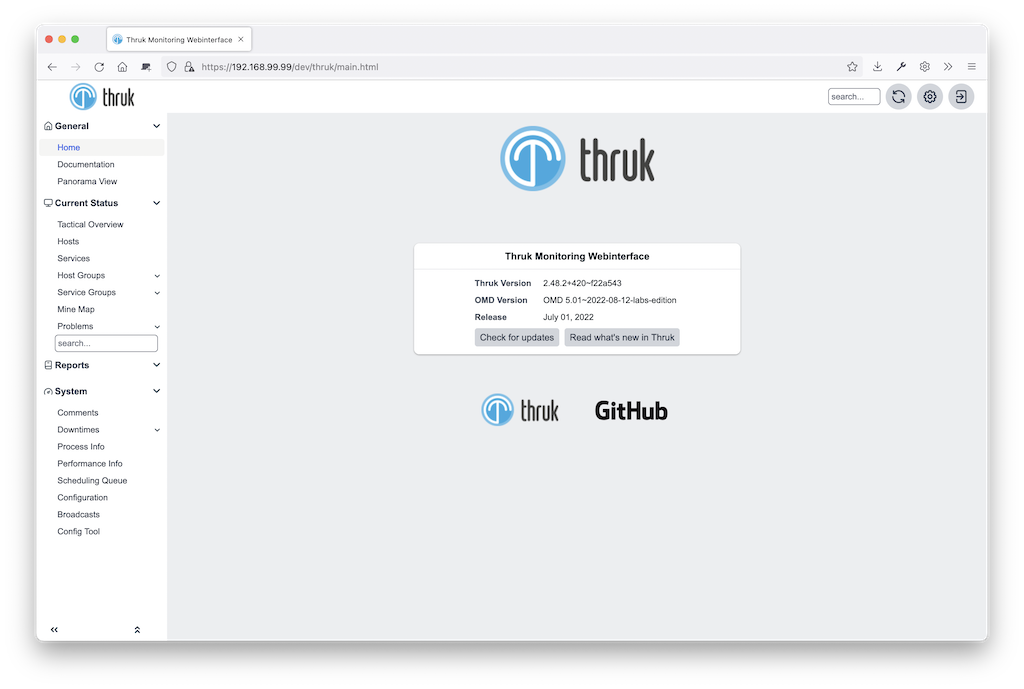
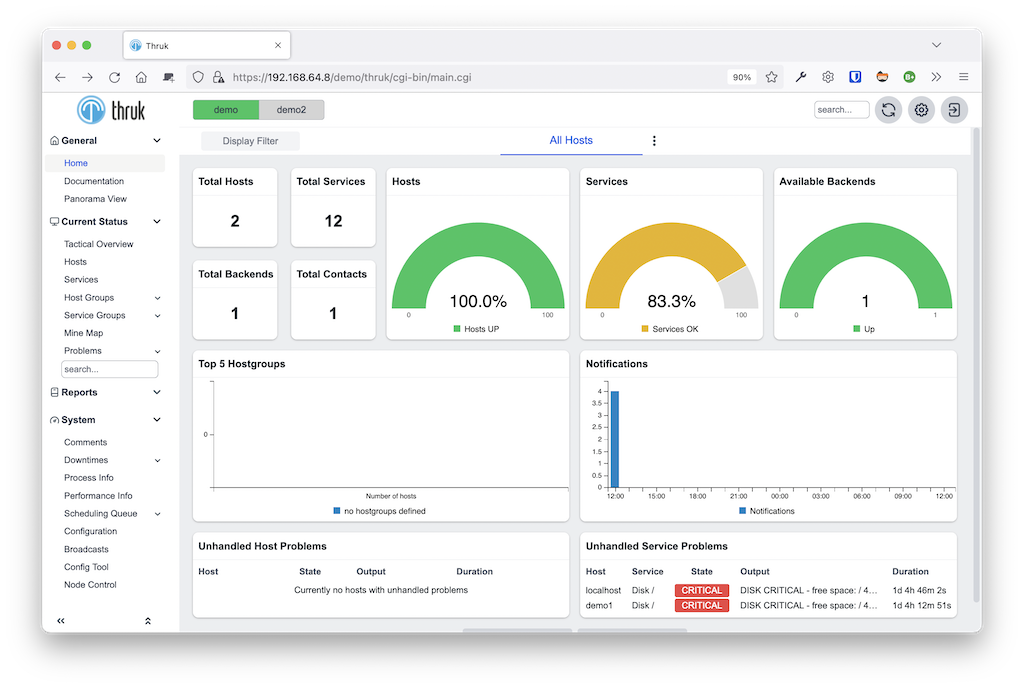
release 3.00

diff --git a/src/whatsnew/v3.00.html b/src/whatsnew/v3.00.html
@@ -1,0 +1,132 @@
+---
+version: v3.00
+title: What's New In Release v3.00
+layout: whatsnew
+lightbox: true
+breadcrumb: [ "whatsnew.html", "What's New" ]
+---
+
+<div class="row">
+  <div class="col-md-12">
+    <h3 class="page-header">Redesign and new themes</h3>
+  </div>
+</div>
+<div class="row">
+  <div class="col-md-12">
+    <p>All pages have been redesigned with Tailwind css framework for a fresh look, better responsivness and improved ui usability.</p>
+    <p>This time we did not only change the css, but reworked all pages.</p>
+  </div>
+</div>
+<div class="row">
+  <div class="col-md-4">
+    <a title="Themes" rel="lightbox[whatsnew]" href="{{ page.version }}/light.png"><img src="{{ page.version }}/light.png" alt="light theme" /></a>
+  </div>
+  <div class="col-md-4">
+    <a title="Themes" rel="lightbox[whatsnew]" href="{{ page.version }}/dark.png"><img src="{{ page.version }}/dark.png" alt="dark theme" /></a>
+  </div>
+</div>
+<div class="row">
+  <div class="col-md-12">
+    <p>This changes makes existing themes incompatible. However, it is way easier now to create custom themes, see: </p>
+    <ul>
+      <li><a href="..//documentation/themes.html">themes documentation</a></li>
+      <li><a href="https://github.com/sni/thruk-custom-themes-example">custom themes example</a></li>
+  </div>
+</div>
+
+
+<div class="row">
+  <div class="col-md-12">
+    <h3 class="page-header">New Navigation</h3>
+  </div>
+</div>
+<div class="row">
+  <div class="col-md-12">
+    <p>The side bar navigation has been reworked. There are now 3 ways to show the navigation:</p>
+  </div>
+</div>
+<div class="row">
+  <div class="col-md-4">
+    <a title="Navigation" rel="lightbox[whatsnew]" href="{{ page.version }}/nav_normal.png"><img src="{{ page.version }}/nav_normal.png" alt="normal navigation" /></a>
+  </div>
+  <div class="col-md-4">
+    <a title="Small Navigation" rel="lightbox[whatsnew]" href="{{ page.version }}/nav_small.png"><img src="{{ page.version }}/nav_small.png" alt="small navigation" /></a>
+  </div>
+  <div class="col-md-4">
+    <a title="Mobile Navigation" rel="lightbox[whatsnew]" href="{{ page.version }}/nav_mobile.png"><img src="{{ page.version }}/nav_mobile.png" alt="mobile navigation" /></a>
+  </div>
+</div>
+
+
+<div class="row">
+  <div class="col-md-12">
+    <h3 class="page-header">New Main Langing Page</h3>
+  </div>
+</div>
+<div class="row">
+  <div class="col-md-12">
+    <p>Instead of the mostly useless existing start page, there is now a landing page dashboard with some useful information.</p>
+  </div>
+</div>
+<div class="row">
+  <div class="col-md-4">
+    <a title="Main Page" rel="lightbox[whatsnew]" href="{{ page.version }}/main_page.png"><img src="{{ page.version }}/main_page.png" alt="main page" /></a>
+  </div>
+</div>
+
+
+
+<div class="row">
+  <div class="col-md-12">
+    <h3 class="page-header">Reworked Paging</h3>
+  </div>
+</div>
+<div class="row">
+  <div class="col-md-12">
+    <p>List paging has been reworked. The paging toolbar is now always visible, even if there is only a single page.</p>
+    <p>If you prefer the old style, you can toggle the full screen display with the button left to the page entries dropdown.</p>
+  </div>
+</div>
+<div class="row">
+  <div class="col-md-4">
+    <a title="Paging" rel="lightbox[whatsnew]" href="{{ page.version }}/paging.png"><img src="{{ page.version }}/paging.png" alt="paging" /></a>
+  </div>
+</div>
+
+
+
+<div class="row">
+  <div class="col-md-12">
+    <h3 class="page-header">Commands Popup</h3>
+  </div>
+</div>
+<div class="row">
+  <div class="col-md-12">
+    <p>Instead of command links beeing openend in a new page, they now open as popup (new page is still possible and supported).</p>
+  </div>
+</div>
+<div class="row">
+  <div class="col-md-4">
+    <a title="Commands" rel="lightbox[whatsnew]" href="{{ page.version }}/commands.png"><img src="{{ page.version }}/commands.png" alt="commands popup" /></a>
+  </div>
+</div>
+
+
+
+<div class="row">
+  <div class="col-md-12">
+    <h3 class="page-header">Deprecations</h3>
+  </div>
+</div>
+<div class="row">
+  <div class="col-md-12">
+    <p>A few things had to go.</p>
+    <p>
+       <ul>
+         <li><code>v2 themes</code> Existing themes are no longer supported, see above.</li>
+         <li><code>mobile plugin</code> The mobile plugin should not be neccessary anymore since most pages work well on mobile.</li>
+         <li><code>statusmap plugin</code> The statusmap plugin is no longer supported.</li>
+       </ul>
+    </p>
+  </div>
+</div>

diff --git a/src/download.html b/src/download.html
@@ -65,6 +65,7 @@ window.doOnLoadList.push(function() {
 <br>
 
 
+
 <div class="panel panel-default">
   <div class="panel-heading"><h2>Release Plan</h2></div>
   <div class="panel-body">
@@ -74,6 +75,8 @@ window.doOnLoadList.push(function() {
       <a class="btn btn-info" href="download.html#nightly-development-builds" role="button" style="width:20%;">Nightly</a>
       <a class="btn btn-warning" href="https://github.com/sni/Thruk/blob/master/Changes" role="button" target="_blank" style="width:20%;">Next: {{ site.next_release_date }}</a>
     </div>
+    <p></p>
+    <p>Read <a href="{{ site.baseurl }}whatsnew.html">what's new</a> in this release.</p>
   </div>
 </div>
 
@@ -138,6 +141,11 @@ window.doOnLoadList.push(function() {
   <td></td>
   <td><a href="https://download.thruk.org/pkg/v{{ site.release_version }}/ubuntu20.04/amd64/">thruk_{{ site.release_version }}_ubuntu20.04_amd64.deb</a></td>
 </tr>
+<tr>
+  <td class="text-center"><img src="images/ubuntu.png" alt="ubuntu" height=48 width=48></td><td class="text-center">Ubuntu</td><td class="text-center">22.04</td><td class="text-center">jammy</td>
+  <td></td>
+  <td><a href="https://download.thruk.org/pkg/v{{ site.release_version }}/ubuntu22.04/amd64/">thruk_{{ site.release_version }}_ubuntu22.04_amd64.deb</a></td>
+</tr>
 
 <tr>
   <td colspan=6>&nbsp;</td>
@@ -180,7 +188,7 @@ window.doOnLoadList.push(function() {
     <p>
       <a href="https://download.thruk.org/nightly_builds/">Download nightly snapshots</a><br>
       Have at least a look at the test results before using test releases. They should be used for tests only, not in production!<br>
-      Travis-CI: <a href="https://travis-ci.org/sni/Thruk/" target="_blank"><img src="https://travis-ci.org/sni/Thruk.png?branch=master" width=77 height=19 alt="travis ci build status"></a>
+      GitHub-CI: <a href="https://github.com/sni/Thruk/actions?query=workflow:citest" target="_blank"><img src="https://github.com/sni/Thruk/workflows/citest/badge.svg" width=107 height=20 style="vertical-align: sub;" alt="github ci build status"></a>
     </p>
   </div>
 </div>
